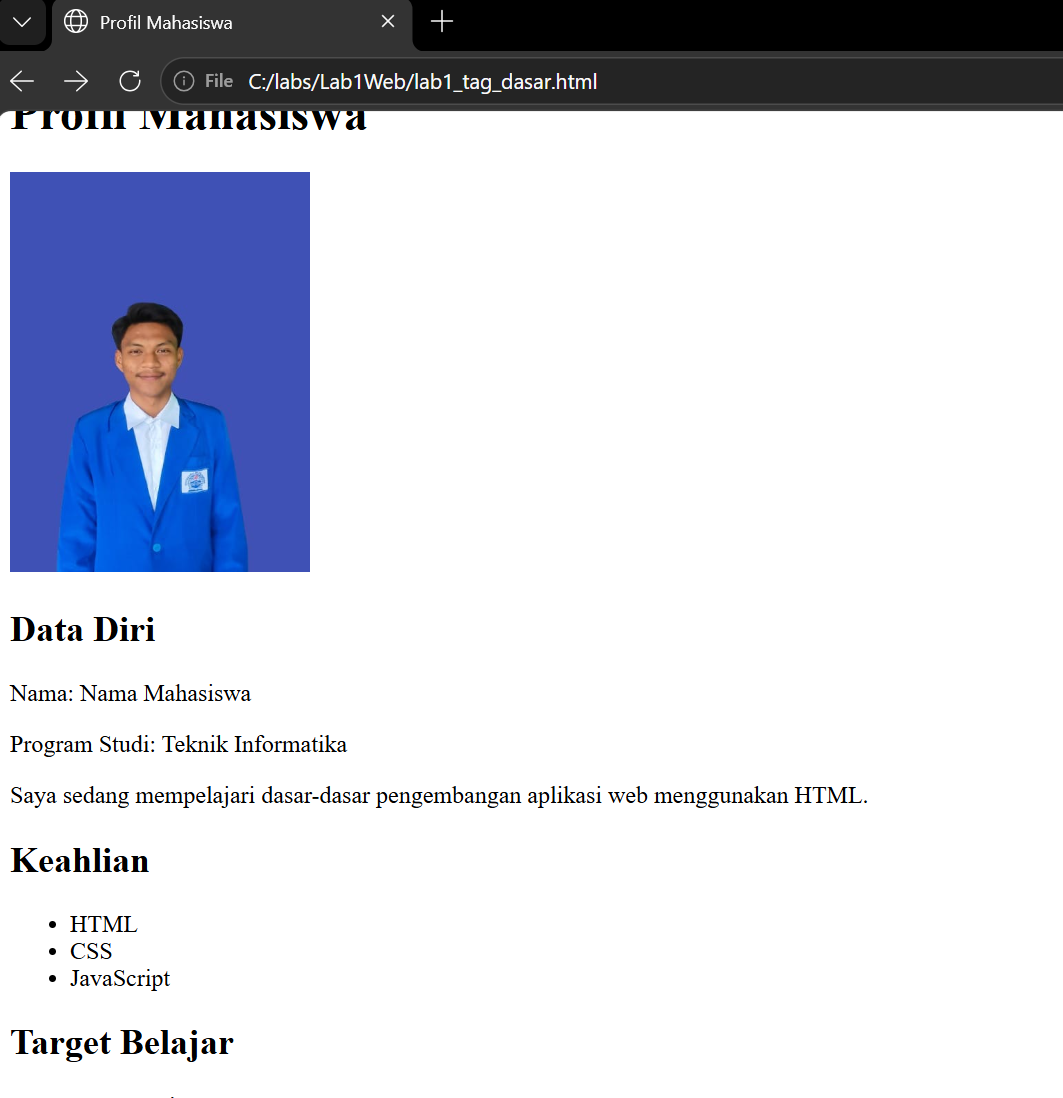
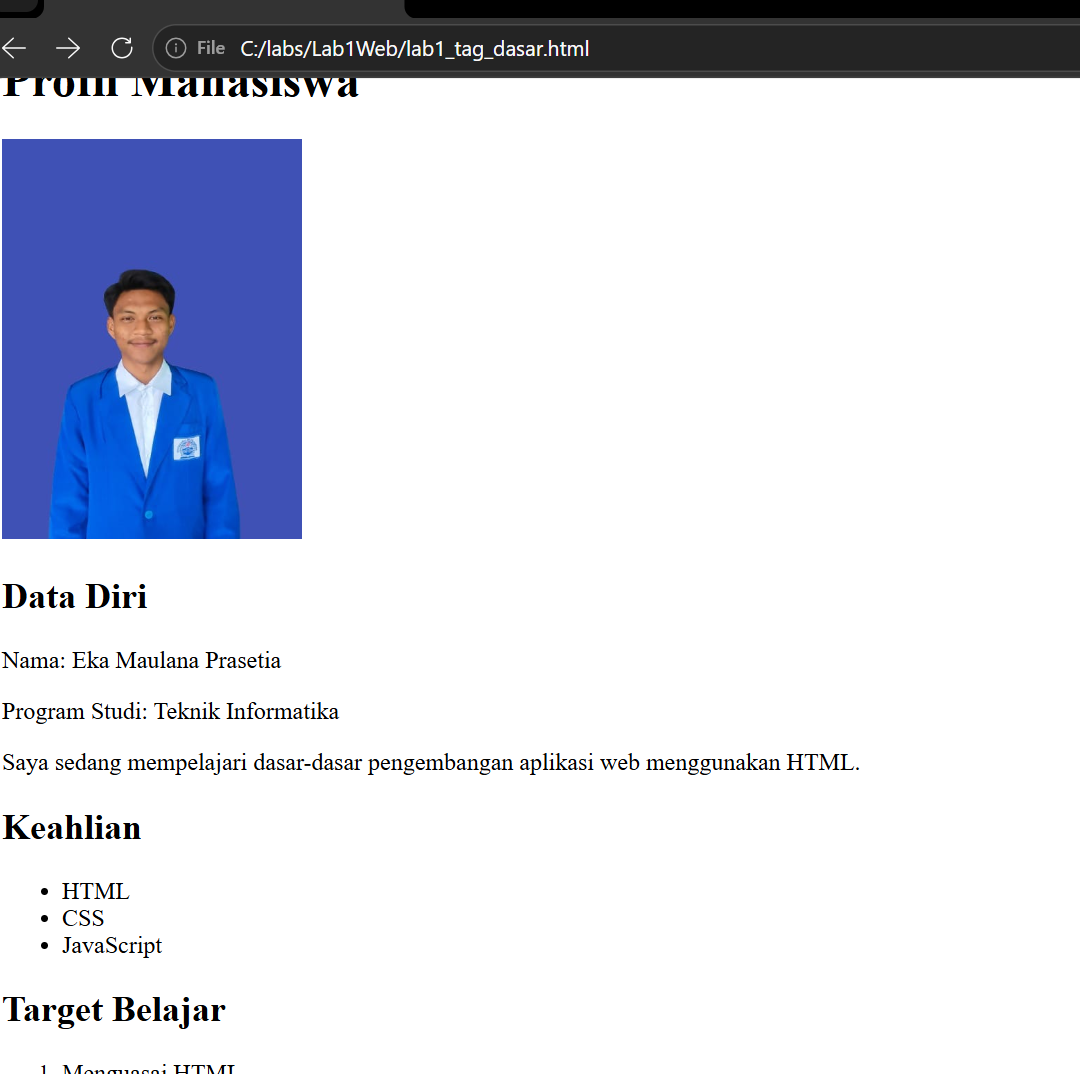
manambahkan screenshot dan memperbarui HTML

Changed region(s): [[0.0, 0.0, 1.0, 1.0]]

diff --git a/lab1_tag_dasar.html b/lab1_tag_dasar.html
@@ -20,7 +20,7 @@ alt="Foto profil mahasiswa">
 <h2>Data Diri</h2>
 
 <p>
-Nama: Nama Mahasiswa
+Nama: Eka Maulana Prasetia
 </p>
 <p>
 Program Studi: Teknik Informatika

diff --git a/README.md b/README.md
@@ -25,5 +25,5 @@ Kode untuk membuat paragraf adalah "<p>"
 ### Menambahkan Komentar
 ![Gambar7](screenshot/Menambahkan%20komentar.png)
 
-### Menggabungkan Semua Elemen
+### Menggabungkan Semua Elemen 
 ![Gambar8](screenshot/Menggabungkan%20semua%20elemen.png)
